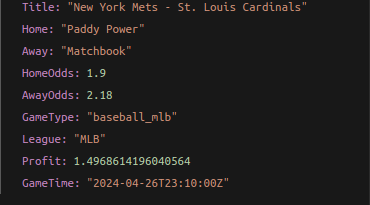
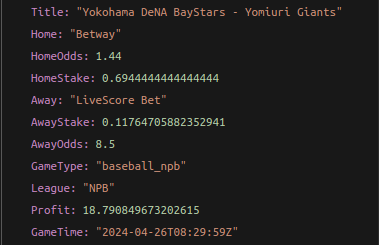
fix: add stake ratios  to response

diff --git a/pkg/oddsWrapper/usecases/arbs/arbs.go b/pkg/oddsWrapper/usecases/arbs/arbs.go
@@ -24,9 +24,11 @@ func (us *UseCasesArbsImpl) composeTwoArbsBet(odd domain.Odds, i int, j int) (do
 		twowayArb := domain.TwoOddsArb{
 			Title:    fmt.Sprintf("%s - %s", odd.HomeTeam, odd.AwayTeam),
 			Home:     odd.Bookmakers[i].Title,
-			Away:     odd.Bookmakers[j].Title,
 			HomeOdds: homeOdd,
+			HomeStake: 1/homeOdd,
+			Away:     odd.Bookmakers[j].Title,
 			AwayOdds: awayOdd,
+			AwayStake: 1/awayOdd,
 			GameType: odd.SportKey,
 			League:   odd.SportTitle,
 			Profit:   profit,
@@ -51,11 +53,14 @@ func (us *UseCasesArbsImpl) composeThreeArbsBet(odd domain.Odds, i int, j int, k
 		threewayArb := domain.ThreeOddsArb{
 			Title:    fmt.Sprintf("%s - %s", odd.HomeTeam, odd.AwayTeam),
 			Home:     odd.Bookmakers[i].Title,
-			Away:     odd.Bookmakers[j].Title,
-			Draw:     odd.Bookmakers[k].Title,
 			HomeOdds: homeOdd,
+			HomeStake: 1/homeOdd,
+			Away:     odd.Bookmakers[j].Title,
 			AwayOdds: awayOdd,
+			AwayStake: 1/awayOdd,
+			Draw:     odd.Bookmakers[k].Title,
 			DrawOdds: drawOdd,
+			DrawStake: 1/drawOdd,
 			GameType: odd.SportKey,
 			League:   odd.SportTitle,
 			Profit:   profit,

diff --git a/pkg/oddsWrapper/domain/arbs.go b/pkg/oddsWrapper/domain/arbs.go
@@ -5,10 +5,13 @@ package domain
 type ThreeOddsArb struct {
 	Title    string
 	Home     string
-	Draw     string
-	Away     string
 	HomeOdds float64
+	HomeStake float64
+	Draw     string
 	DrawOdds float64
+	DrawStake float64
+	Away     string
+	AwayStake float64
 	AwayOdds float64
 	GameType string
 	League   string
@@ -21,8 +24,10 @@ type ThreeOddsArb struct {
 type TwoOddsArb struct {
 	Title    string
 	Home     string
-	Away     string
 	HomeOdds float64
+	HomeStake float64
+	Away     string
+	AwayStake float64
 	AwayOdds float64
 	GameType string
 	League   string

diff --git a/README.md b/README.md
@@ -81,10 +81,12 @@ Any optimization techniques are appreciated.
 type ThreeOddsArb struct {
 	Title    string
 	Home     string // home bookmarker
-	Draw     string // draw bookmarker
-	Away     string // away bookmarker
 	HomeOdds float64 // home bookmarker odds
+	HomeStake float64 // home stake you should place
+	Draw     string // draw bookmarker
 	DrawOdds float64 // draw bookmarker ddds
+	DrawStake float64 // draw stake you should place
+	Away     string // away bookmarker
 	AwayOdds float64 // away book marker odds
 	GameType string
 	League   string
@@ -97,9 +99,11 @@ type ThreeOddsArb struct {
 type TwoOddsArb struct {
 	Title    string
 	Home     string // home bookmarker
-	Away     string // away bookmarker
 	HomeOdds float64 // home bookmarker odds
+	HomeStake float64 // home stake you should place
+	Away     string // away bookmarker
 	AwayOdds float64 // away book marker odds
+	AwayStake float64 // away stake you should place
 	GameType string
 	League   string
 	Profit   float64
